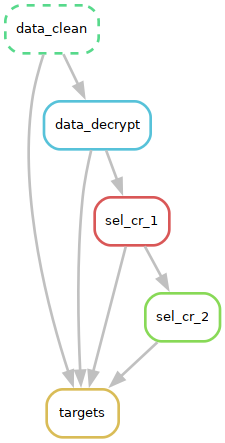
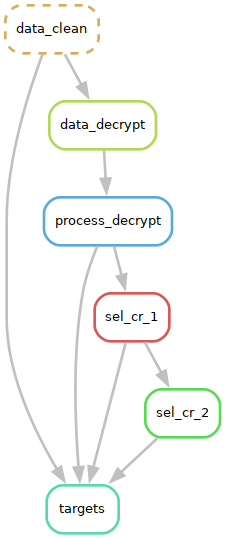
Workflow refactored

diff --git a/code/decrypt.js b/code/decrypt.js
@@ -1,5 +1,5 @@
 const dfd = require("danfojs-node")
-console.log('\x1b[32m%s\x1b[0m', "Loading dataset for decryption...")
+console.log("Loading dataset for decryption...")
 dfd.readCSV("/projects/MRC-IEU/research/projects/ieu2/p6/063/working/data/results/cleaned.csv")
   .then(df => {
   
@@ -57,7 +57,7 @@ for (let i = 1; i <= spl; i+=1){
   sub_df.addColumn("Data", new_col, { inplace: true})
   dfd.toCSV(sub_df, { filePath: out_file+id});
 
-  console.log('\x1b[33m%s\x1b[0m', "Decrypted range: "+rng, "\n")
+  console.log("Decrypted range: "+rng)
 
   j = j+batch_size
 }
@@ -71,10 +71,10 @@ if (all - (spl*batch_size) > 0){
   let new_col = sub_df['Data'].apply(recordingDataToTemperatureArray, { axis: 1 })
   sub_df.addColumn("Data", new_col, { inplace: true})
   dfd.toCSV(sub_df, { filePath: out_file+id});
-  console.log('\x1b[33m%s\x1b[0m', "Decrypted range: "+rng, "\n")
+  console.log("Decrypted range: "+rng)
 }
 
-console.log('\x1b[43m%s\x1b[0m', "Data decryption ended");
+console.log("Data decryption ended");
 
   }).catch(err=>{
     console.log(err);

diff --git a/code/sel_crt_2.py b/code/sel_crt_2.py
@@ -4,13 +4,24 @@
 import numpy as np
 import pandas as pd
 import argparse
+import os
 
 pd.options.mode.chained_assignment = None 
 
+OUT_FILE = "/projects/MRC-IEU/research/projects/ieu2/p6/063/working/data/results/"
 parser = argparse.ArgumentParser(description='A script filters data')
 parser.add_argument('-d','--data', type=str, required=True, help='The Dataset')
 parser.add_argument('-x','--min_data', type=int, required=True, help='Minimun number of true data')
 parser.add_argument('-y','--init_data', type=int, required=True, help='Number of initial data to take out')
+
+def remove_nan(temp):
+#Removal of NaN, 34500.0 and 0.0
+    j = []
+    for i in temp:
+        floated = float(i)
+        if (str(floated) != "nan") & (str(floated) != "34500.0") & (str(floated) != "0.0"):
+            j.append(floated)
+    return j
 
 def compute_mean(clean, x, y):
     """
@@ -18,16 +29,8 @@ def compute_mean(clean, x, y):
     number of initial data (y) and computes the average of the values
     """
     data = pd.read_csv(clean, index_col="prime")
-    data["Data"] = data["Data"].apply(lambda x: x.replace('[', "").replace(']', "").split(', '))
+    data["Data"] = data["Data"].apply(lambda x: x.replace('[', "").replace(']', "").replace("'", "").split(', '))
     
-    def remove_nan(temp):
-    #Removal of NaN, 34500.0 and 0.0
-        j = []
-        for i in temp:
-            floated = float(i)
-            if (str(floated) != "nan") & (str(floated) != "34500.0") & (str(floated) != "0.0"):
-                j.append(floated)
-        return j
     data["Data_2"] = data["Data"].apply(remove_nan)
 
     
@@ -44,8 +47,8 @@ def compute_mean(clean, x, y):
      #4c. getting the average data values
     data_new["Mean_Temp"] = data_new['Data_to_Compute'].apply(lambda x: np.array(x).mean().round(0).astype(int))
     data_new.drop("Data_to_Compute", axis = 1, inplace = True)
-    data_new.to_csv("data/sel_crt_2.csv")
-
+    #data_new.to_csv("data/sel_crt_2.csv")
+    data_new.to_csv(os.path.join(OUT_FILE,"sel_crt_2.csv"))
 if __name__ == "__main__":
     args = parser.parse_args()
     compute_mean(args.data, args.min_data, args.init_data)

diff --git a/code/decrypt_merge_2.py b/code/decrypt_merge_2.py
@@ -1,0 +1,32 @@
+
+import numpy as np
+import pandas as pd
+import os
+import glob
+import csv
+from loguru import logger
+
+ABSOLUTE = "/projects/MRC-IEU/research/projects/ieu2/p6/063/working/data/results/decrypted"
+#OUT_FILE = "data/"
+OUT_FILE = "/projects/MRC-IEU/research/projects/ieu2/p6/063/working/data/results/"
+
+decrytped_path = os.path.join(ABSOLUTE, "*.csv") 
+decrytped_files = glob.glob(decrytped_path)
+
+df = pd.DataFrame()
+
+for f in decrytped_files:
+    with open(f, "r") as file:
+        csv_file = csv.reader(file)
+        records = list(csv_file)
+        for row in records[1:]:
+            data = row[6:-1]
+            row[-1:-2] += [data]
+            del row[6:-2]
+        data = pd.DataFrame(records[1:], columns = records[0])
+    df = pd.concat([df, data], ignore_index=True, axis = 0)
+    file_name = f.split("/")[-1]
+    logger.info(file_name+" has been decrypted and merged")
+    os.remove(f)
+
+df.to_csv(os.path.join(OUT_FILE,"decrypted.csv"))

diff --git a/code/sel_crt_1.py b/code/sel_crt_1.py
@@ -3,8 +3,10 @@
 
 import numpy as np
 import pandas as pd
+import os
 import argparse
 
+OUT_FILE = "/projects/MRC-IEU/research/projects/ieu2/p6/063/working/data/results/"
 parser = argparse.ArgumentParser(description= "A script to filter data")
 parser.add_argument('-d', '--data', type=str, required=True, help= 'The dataset')
 parser.add_argument('-r', '--min_records', type=int, required=True, help= 'Minimum number of record days')
@@ -45,7 +47,9 @@ def process_temp(file, x, y, z):
     #print("There are ", len(check_3), " Cycle IDs with less than ", y, " Days,", len(check_3_records), " records will be deleted")
     #print("There are ", len(check_4), " User IDs with less than ", z, " Cycles,", len(check_4_records), " records will be deleted")
 
-    clean_4.to_csv("data/sel_crt_1.csv")
+    #clean_4.to_csv("data/sel_crt_1.csv")
+    
+    clean_4.to_csv(os.path.join(OUT_FILE,"sel_crt_1.csv"))
     #return clean_4
 if __name__ == "__main__":
     args = parser.parse_args()

diff --git a/README.md b/README.md
@@ -11,7 +11,7 @@ Research on Basal Body Temperature
 
 ```bash
 #Clone the Repo (use https if necessary)
-git clone git@github.com:Lekanville/bbt_research.git
+git@github.com:MRCIEU/bbt_research.git
 cd bbt_research
 
 #Create the Conda Environment
@@ -23,13 +23,17 @@ cd code
 pwd
 export PYTHONPATH=$PYTHONPATH:pwd
 ```
-## Task 1: Clean Data
+## Task 1: Clean the Data
 Run the data cleaning rule (you can specify the number of core to use with the -c command)
 ```
 snakemake -r data_clean -c 1
 ```
 ## Task 2: Decrypt the Data Column
-Run the data decrypting rule (you can specify the number of core to use with the -c command). You may need to increase your memory size for this (check point 2 of potential issues below). You can monitor the decrption process my monitorin the "decryption_log" file
+1. Open code/decrypt.js and define the batchsize for the decryption. The set defauult value is 450000
+
+2. Run the data decrypting rule (you can specify the number of core to use with the -c command). You may also need to increase your memory size for this (check point 2 of potential issues below). You can monitor the decrption process my monitorin the "decryption_log" file.
+
+3. You can monitor the decryption progress in the "decryption_log" file and on the console
 ```
 snakemake -r data_decrypt -c 1
 ```
